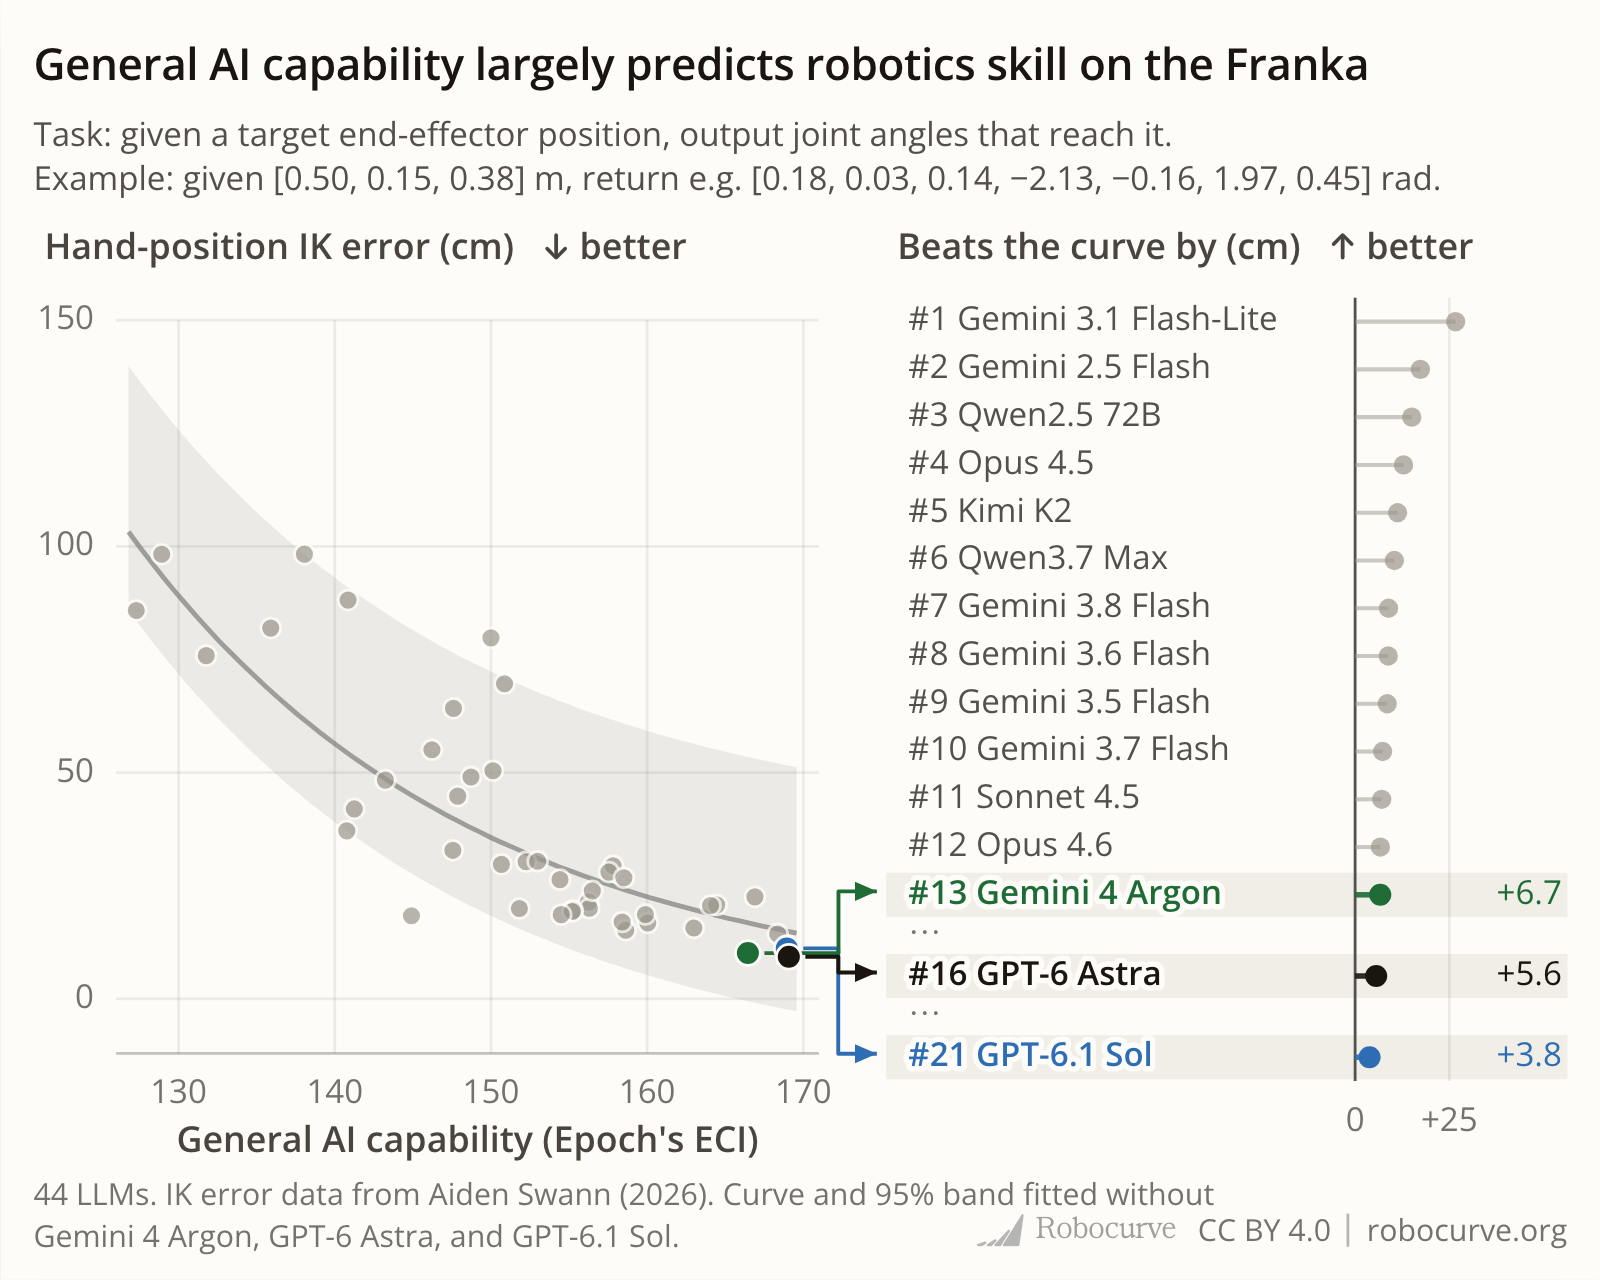
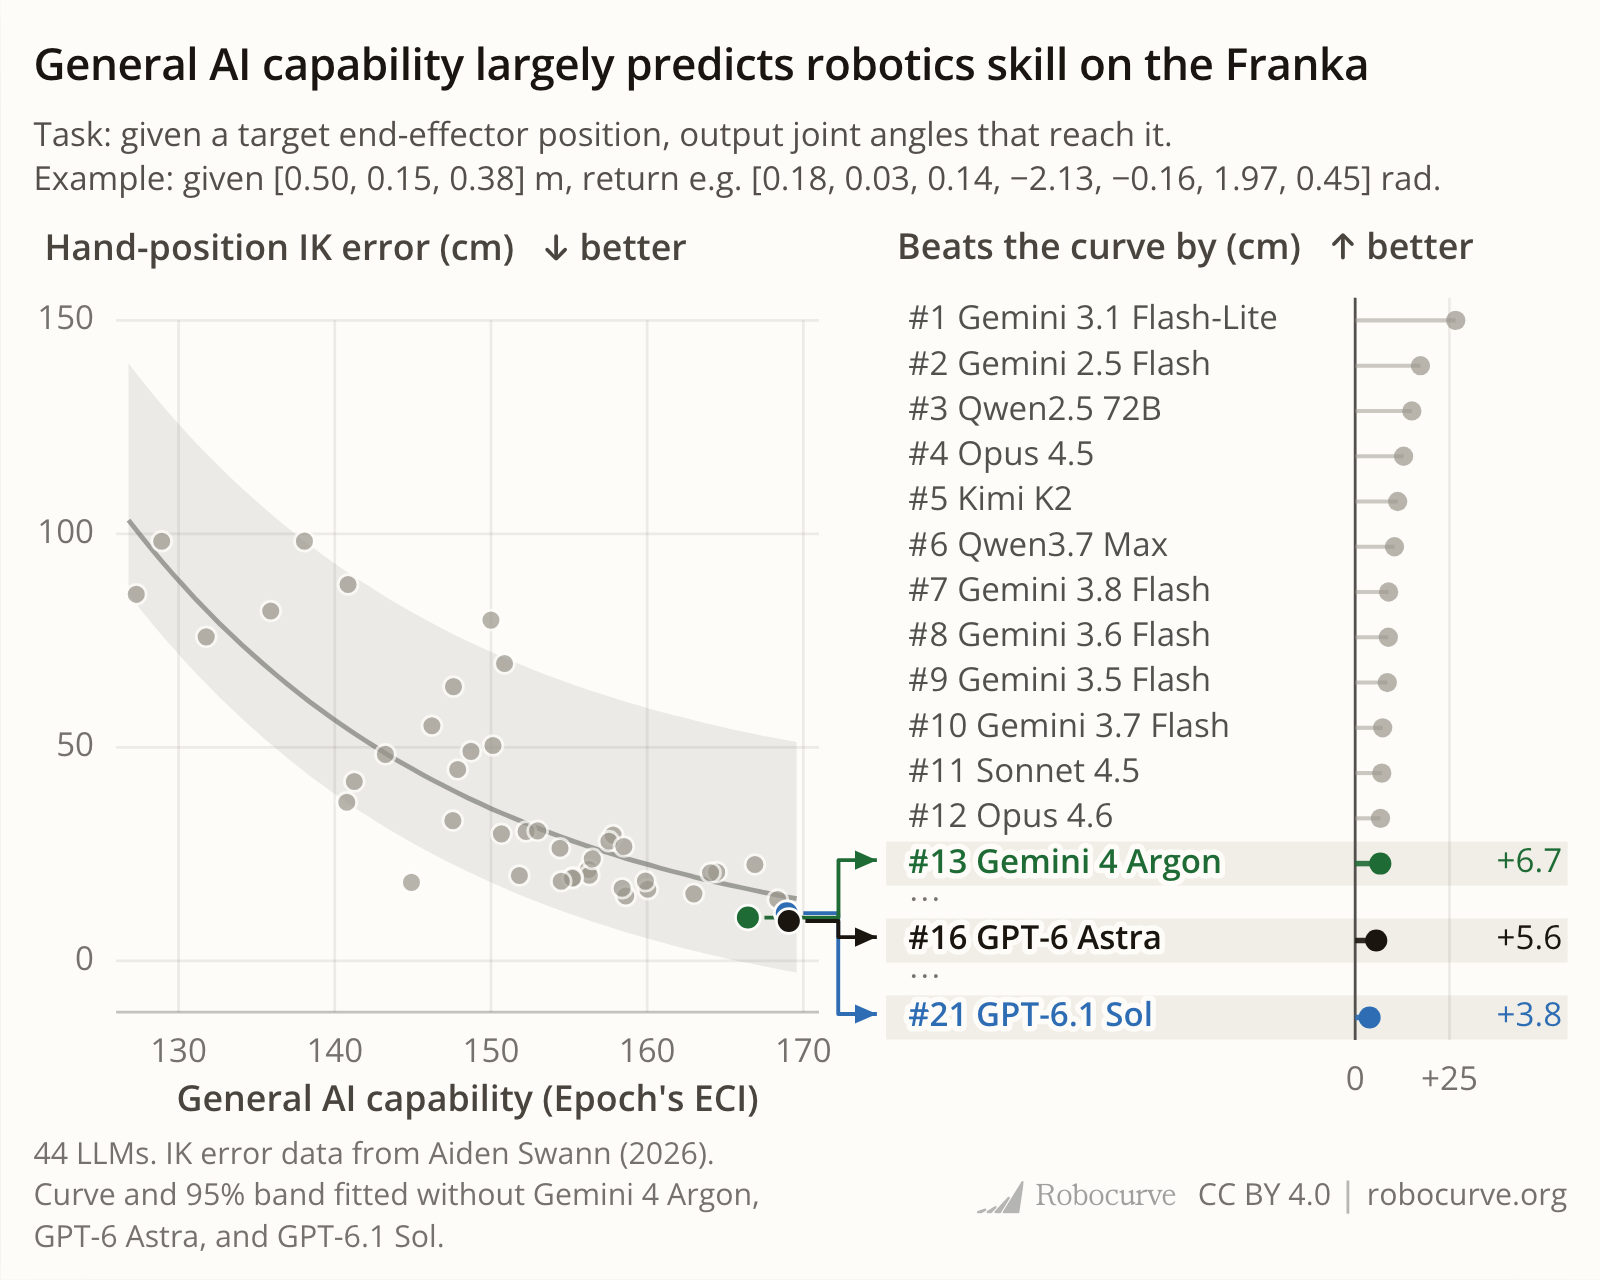
Nov-09: caption in its own column beside the attribution

diff --git a/tweets/2026/November/Nov-09/site/src/KinematicsCards.jsx b/tweets/2026/November/Nov-09/site/src/KinematicsCards.jsx
@@ -379,7 +379,7 @@ const KW_X = ['Beats the curve by (cm)', 'Beats the curve by (points)', 'Beats t
 const MOBILE_Y = ['Hand-position error (cm)', 'MCQs answered correctly (%)', 'IK error (cm)', 'Distance from real Panda (cm)'];
 function PairChart({ i, metric, topN = 0, mobile = false, wideLeft = false }) {
   const boxRef = useRef(null);
-  const cap = mobile ? <>44 LLMs. {['FK error', 'MCQ', 'IK error', 'Edited-arm'][i]} data from Aiden Swann (2026).{wideLeft ? <> Curve and 95% band fitted without<br />Gemini 4 Argon, GPT-6 Astra, and GPT-6.1 Sol.</> : <><br />Curve and 95% band exclude Argon, Astra, and <span style={{ whiteSpace: 'nowrap' }}>GPT-6.1 Sol</span>.</>}</> : PAIR_CAP(metric, topN, i === 1 ? 'points' : 'cm');
+  const cap = mobile ? <>44 LLMs. {['FK error', 'MCQ', 'IK error', 'Edited-arm'][i]} data from Aiden Swann (2026).{wideLeft ? <><br />Curve and 95% band fitted without Gemini 4 Argon,<br />GPT-6 Astra, and GPT-6.1 Sol.</> : <><br />Curve and 95% band exclude Argon, Astra, and <span style={{ whiteSpace: 'nowrap' }}>GPT-6.1 Sol</span>.</>}</> : PAIR_CAP(metric, topN, i === 1 ? 'points' : 'cm');
   // wideLeft (5:4): caption sits under the scatter so the ranking runs down to the footer (user 2026-11-09).
   return (
     <figure className="rc-chart" style={{ flex: 1, minHeight: 0, display: 'flex', flexDirection: 'column' }}>
@@ -392,9 +392,9 @@ function PairChart({ i, metric, topN = 0, mobile = false, wideLeft = false }) {
         <div style={{ flex: mobile ? 1.2 : 1, minWidth: 0, display: 'flex', position: 'relative', zIndex: 1 }}>{cloneElement(KIN_RANK_PANELS[i].chart(), { noCaption: true, rankOnly: true, topN, compact: mobile || topN > 0, ...(i === 3 ? { xTitle: 'Distance below predicted (cm)' } : {}), ...(mobile && i === 0 ? { xTitle: 'Error below predicted (cm)' } : {}), ...(wideLeft ? { xTitle: KW_X[i], hint: i < 3 ? '↑ better' : '↑ more overfit' } : {}) })}</div>
       </div>
       {wideLeft ? ( /* 5:4: caption left, attribution right on one row (user 2026-11-09) */
-        <div style={{ position: 'relative', marginTop: 4 }}>{/* caption line 1 runs full width; line 2 is short and the attribution sits beside it */}
+        <div style={{ display: 'flex', alignItems: 'center', justifyContent: 'space-between', gap: 8, marginTop: 4 }}>{/* caption left, attribution right, centred on the same band */}
           <figcaption className="rc-chart-cap" style={{ margin: 0, whiteSpace: 'nowrap' }}>{cap}</figcaption>
-          <div style={{ position: 'absolute', right: 0, bottom: 2, display: 'flex', alignItems: 'center', gap: 8 }}>
+          <div style={{ display: 'flex', alignItems: 'center', gap: 8, flexShrink: 0 }}>
             <Wordmark size={13} aria-label="Robocurve" style={{ opacity: 0.4, filter: 'grayscale(1)' }} />
             <span style={{ display: 'inline-flex', alignItems: 'center', gap: 6, fontFamily: 'var(--font-sans)', fontSize: 11, color: 'rgba(27,21,15,0.6)' }}>
               CC BY 4.0<span aria-hidden="true" style={{ width: 1, height: 12, background: 'rgba(27,21,15,0.3)' }} />robocurve.org

diff --git a/tweets/2026/November/Nov-09/site/entry.jsx b/tweets/2026/November/Nov-09/site/entry.jsx
@@ -1,6 +1,6 @@
 /* Mounts the four 5:4 Franka Panda cards (KIN_WIDE54_PANELS, ids kw-*) exactly as the website's unlisted /draft/
    page framed them: 580x464 CSS each, shot at 1600/580 DPR by shot.mjs. The CSS below is copied from src/DraftPage.jsx of
-   robocurve/website (commit 113ce7f, branch kinematics-draft); the attribution sits inside each card, beside the caption. */
+   robocurve/website (commit 1391105, branch kinematics-draft); the attribution sits inside each card, beside the caption. */
 import { createRoot } from 'react-dom/client';
 import { Panel } from './src/Trends.jsx';
 import { KIN_WIDE54_PANELS } from './src/KinematicsCards.jsx';

diff --git a/tweets/2026/November/Nov-09/README.md b/tweets/2026/November/Nov-09/README.md
@@ -39,7 +39,7 @@ Run `./regenerate.sh` to rebuild all four PNGs (1600x1280). It needs Python 3 wi
 
 ## How the images are made
 
-`site/` is a trimmed copy of the `robocurve/website` repo at commit `113ce7f` (branch `kinematics-draft`,
+`site/` is a trimmed copy of the `robocurve/website` repo at commit `1391105` (branch `kinematics-draft`,
 2026-11-09). `package.json`, `package-lock.json`, `tokens/fonts-local.css` and the self-hosted Open Sans and Space
 Grotesk fonts are reused from `tweets/2026/October/Oct-19/site`; `build.mjs` and `shot.mjs` are adapted from it (card
 ids, output names, page title). Code comments in the copied files refer to their source repos (for example, the
@@ -58,5 +58,5 @@ website repo being private, or paths in Robocurve's internal social repo); they 
 ## Verification (2026-11-09)
 
 The regenerated PNGs are 1600x1280, the same as `original/`. Every point, label, arrow and line sits in the same
-place. Against the originals, the mean absolute pixel difference is 1.8 to 2.5 on the 0-255 scale, and 0.5 to 1.3%
+place. Against the originals, the mean absolute pixel difference is 1.7 to 2.4 on the 0-255 scale, and 0.5 to 1.3%
 of pixels differ by more than 64 levels, all at glyph edges (text rasterisation differs between machines).
